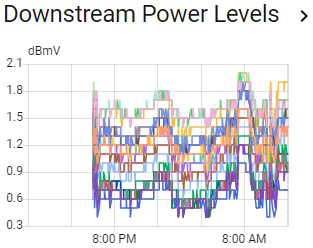
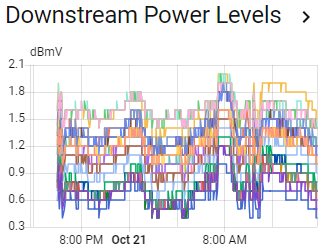
Add configurable history retention and Clear History button
## New Features

### Clear History Button
- Added button entity to clear old historical data from UI
- Appears alongside Restart Modem button in device page
- Uses configurable retention period from settings

### Configurable History Retention
- New configuration option: History Retention (days)
- Range: 1-365 days, default 30 days
- Configure via Settings → Devices & Services → Cable Modem Monitor → Configure
- Button uses this configured value when clearing history

## Documentation Updates
- Added Configuration Options section explaining all settings
- Updated Managing Historical Data section with retention configuration
- Added Clear History button to Available Sensors/Controls list
- Updated dashboard YAML example to include Clear History button
- Added two new example graphs showing real signal data:
  - Downstream Power Levels graph
  - Signal-to-Noise Ratio graph

## Technical Changes
- const.py: Added CONF_HISTORY_DAYS and DEFAULT_HISTORY_DAYS constants
- config_flow.py: Added history_days field to options flow with validation (1-365)
- button.py: Added ClearHistoryButton class that reads retention setting
- translations/en.json: Added translations for history retention option and button
- README.md: Comprehensive documentation updates

🤖 Generated with [Claude Code](https://claude.com/claude-code)

diff --git a/custom_components/cable_modem_monitor/button.py b/custom_components/cable_modem_monitor/button.py
@@ -25,8 +25,11 @@ async def async_setup_entry(
     """Set up Cable Modem Monitor button."""
     coordinator = hass.data[DOMAIN][entry.entry_id]
 
-    # Add restart button
-    async_add_entities([ModemRestartButton(coordinator, entry)])
+    # Add restart button and clear history button
+    async_add_entities([
+        ModemRestartButton(coordinator, entry),
+        ClearHistoryButton(coordinator, entry),
+    ])
 
 
 class ModemRestartButton(CoordinatorEntity, ButtonEntity):
@@ -69,3 +72,39 @@ class ModemRestartButton(CoordinatorEntity, ButtonEntity):
             _LOGGER.info("Modem restart initiated successfully")
         else:
             _LOGGER.error("Failed to restart modem")
+
+
+class ClearHistoryButton(CoordinatorEntity, ButtonEntity):
+    """Button to clear old historical data."""
+
+    def __init__(self, coordinator: DataUpdateCoordinator, entry: ConfigEntry) -> None:
+        """Initialize the button."""
+        super().__init__(coordinator)
+        self._entry = entry
+        self._attr_name = "Clear History"
+        self._attr_unique_id = f"{entry.entry_id}_clear_history_button"
+        self._attr_icon = "mdi:delete-clock"
+        self._attr_device_info = {
+            "identifiers": {(DOMAIN, entry.entry_id)},
+            "name": f"Cable Modem {entry.data['host']}",
+            "manufacturer": "Cable Modem",
+            "model": "Monitor",
+        }
+
+    async def async_press(self) -> None:
+        """Handle the button press."""
+        _LOGGER.info("Clear history button pressed")
+
+        # Get configured retention days from config entry
+        from .const import CONF_HISTORY_DAYS, DEFAULT_HISTORY_DAYS
+        days_to_keep = self._entry.data.get(CONF_HISTORY_DAYS, DEFAULT_HISTORY_DAYS)
+
+        # Call the clear_history service
+        await self.hass.services.async_call(
+            DOMAIN,
+            "clear_history",
+            {"days_to_keep": days_to_keep},
+            blocking=True,
+        )
+
+        _LOGGER.info(f"History cleared, kept last {days_to_keep} days")

diff --git a/custom_components/cable_modem_monitor/config_flow.py b/custom_components/cable_modem_monitor/config_flow.py
@@ -11,7 +11,7 @@ from homeassistant.core import HomeAssistant, callback
 from homeassistant.data_entry_flow import FlowResult
 from homeassistant.exceptions import HomeAssistantError
 
-from .const import CONF_HOST, CONF_USERNAME, CONF_PASSWORD, DOMAIN
+from .const import CONF_HOST, CONF_USERNAME, CONF_PASSWORD, CONF_HISTORY_DAYS, DEFAULT_HISTORY_DAYS, DOMAIN
 from .modem_scraper import ModemScraper
 
 _LOGGER = logging.getLogger(__name__)
@@ -118,12 +118,16 @@ class OptionsFlowHandler(config_entries.OptionsFlow):
         # Pre-fill form with current values
         current_host = self.config_entry.data.get(CONF_HOST, "192.168.100.1")
         current_username = self.config_entry.data.get(CONF_USERNAME, "admin")
+        current_history_days = self.config_entry.data.get(CONF_HISTORY_DAYS, DEFAULT_HISTORY_DAYS)
 
         options_schema = vol.Schema(
             {
                 vol.Required(CONF_HOST, default=current_host): str,
                 vol.Optional(CONF_USERNAME, default=current_username): str,
                 vol.Optional(CONF_PASSWORD, default=""): str,
+                vol.Required(CONF_HISTORY_DAYS, default=current_history_days): vol.All(
+                    vol.Coerce(int), vol.Range(min=1, max=365)
+                ),
             }
         )
 

diff --git a/custom_components/cable_modem_monitor/const.py b/custom_components/cable_modem_monitor/const.py
@@ -4,4 +4,6 @@ DOMAIN = "cable_modem_monitor"
 CONF_HOST = "host"
 CONF_USERNAME = "username"
 CONF_PASSWORD = "password"
+CONF_HISTORY_DAYS = "history_days"
 DEFAULT_SCAN_INTERVAL = 300  # 5 minutes in seconds
+DEFAULT_HISTORY_DAYS = 30  # Default number of days to keep history

diff --git a/README.md b/README.md
@@ -54,6 +54,17 @@ This integration will be available through HACS for easier installation and upda
    - Search for "Cable Modem Monitor"
    - Enter the IP address
 
+### Configuration Options
+
+After installation, you can configure additional settings:
+
+1. Go to **Settings → Devices & Services**
+2. Find **Cable Modem Monitor** and click **Configure**
+3. Available options:
+   - **Modem IP Address**: Update if your modem's IP changes
+   - **Username/Password**: Update authentication credentials
+   - **History Retention**: Number of days to keep when using Clear History button (1-365 days, default: 30)
+
 ## Available Sensors
 
 ### Connection Status
@@ -82,6 +93,7 @@ This integration will be available through HACS for easier installation and upda
 
 ### Controls
 - `button.restart_modem`: Restart your cable modem remotely
+- `button.clear_history`: Clear old historical data (keeps last 30 days)
 
 ## Understanding the Values
 
@@ -112,6 +124,16 @@ Here's an example of a simple, clean dashboard showing all key modem health metr
 
 ![Cable Modem Health Dashboard](dashboard-screenshot.png)
 
+### Example Graphs
+
+Track your signal quality over time with history graphs:
+
+![Downstream Power Levels](downstream-power-levels.png)
+*Downstream power levels across all channels - ideal range is -7 to +7 dBmV*
+
+![Signal-to-Noise Ratio](signal-to-noise-ratio.png)
+*Signal-to-Noise Ratio for all channels - higher is better, aim for above 40 dB*
+
 Create a dashboard to monitor your modem health:
 
 ```yaml
@@ -128,6 +150,7 @@ cards:
       - sensor.total_corrected_errors
       - sensor.total_uncorrected_errors
       - button.restart_modem
+      - button.clear_history
 
   - type: history-graph
     title: Downstream Power Levels
@@ -286,6 +309,49 @@ If your modem isn't working:
 By default, the integration polls your modem every 5 minutes. This is defined in `const.py` as `DEFAULT_SCAN_INTERVAL = 300` (seconds).
 
 To change this, edit the value in `custom_components/cable_modem_monitor/const.py` and restart Home Assistant.
+
+## Managing Historical Data
+
+The integration stores all sensor data in Home Assistant's database for historical tracking and trend analysis. Over time, this data can grow large.
+
+### Clear History Button
+
+The easiest way to clean up old data is using the **Clear History** button:
+- Found in Settings → Devices & Services → Cable Modem Monitor device page
+- Uses the retention period configured in settings (default: 30 days)
+- To change retention period: Settings → Devices & Services → Cable Modem Monitor → Configure → History Retention
+- Keeps recent data for trend analysis
+
+### Clear History Service
+
+For more control, use the `cable_modem_monitor.clear_history` service:
+
+```yaml
+service: cable_modem_monitor.clear_history
+data:
+  days_to_keep: 60  # Keep 60 days of history
+```
+
+You can call this service:
+- Manually via Developer Tools → Services
+- In an automation to run periodically
+- In a script for custom maintenance workflows
+
+**Example Automation** - Clear history monthly:
+```yaml
+automation:
+  - alias: "Cable Modem - Monthly History Cleanup"
+    trigger:
+      - platform: time
+        at: "03:00:00"
+    condition:
+      - condition: template
+        value_template: "{{ now().day == 1 }}"  # First day of month
+    action:
+      - service: cable_modem_monitor.clear_history
+        data:
+          days_to_keep: 90  # Keep 3 months of data
+```
 
 ## Privacy & Security
 
